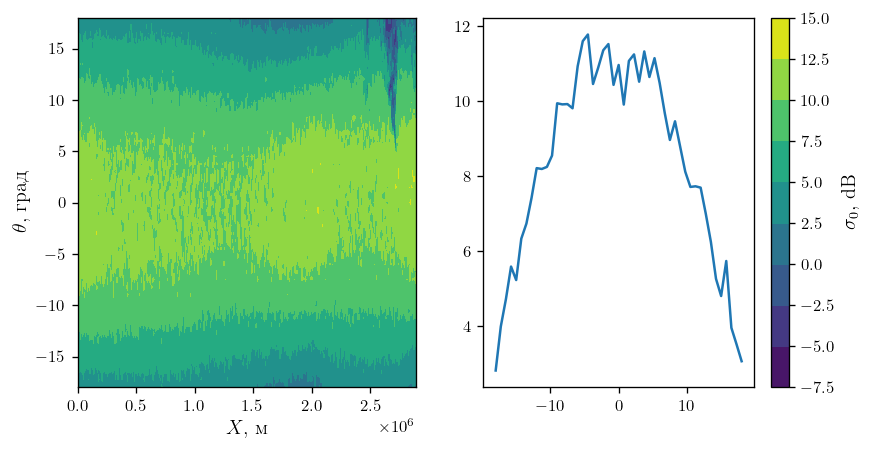
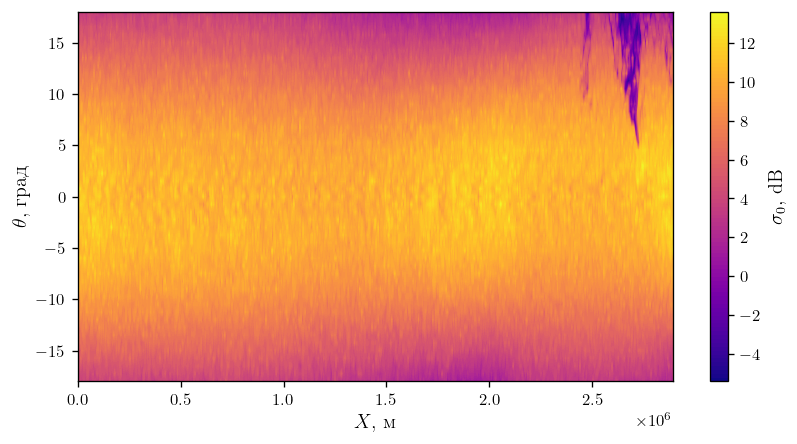
add pics

diff --git a/2021/figs/crosssec_real.py b/2021/figs/crosssec_real.py
@@ -1,23 +1,24 @@
 import matplotlib.pyplot as plt
 import numpy as np
 import pandas as pd
+from matplotlib import cm
 
 df = pd.read_csv('Sig01.txt', sep='\s+', header=None)
 
-fig, ax = plt.subplots(ncols = 2, figsize=(8,4))
+fig, ax = plt.subplots(ncols = 1, figsize=(8,4))
 sigma = df.values.T
 
 theta = np.linspace(-18, 18, df.shape[1])
 x = np.arange(0, 5e3*df.shape[0], 5e3)
 
 X,Y = np.meshgrid(x, theta)
-mappable = ax[0].contourf(X,Y, sigma)
+mappable = ax.contourf(X,Y, sigma, levels=100, cmap=cm.plasma)
 
-ax[0].set_xlabel("$X,$ м")
-ax[0].set_ylabel("$\\theta,$ град")
+ax.set_xlabel("$X,$ м")
+ax.set_ylabel("$\\theta,$ град")
 bar = fig.colorbar(mappable=mappable)
 bar.set_label("$\\sigma_0$, dB")
 
-ax[1].plot(theta, sigma[:,0])
+# ax[1].plot(theta, sigma[:,0])
 
 fig.savefig('real_crosssec.png')
